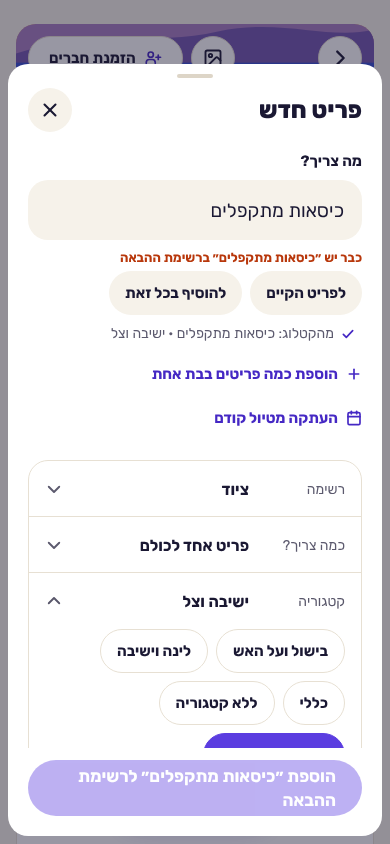
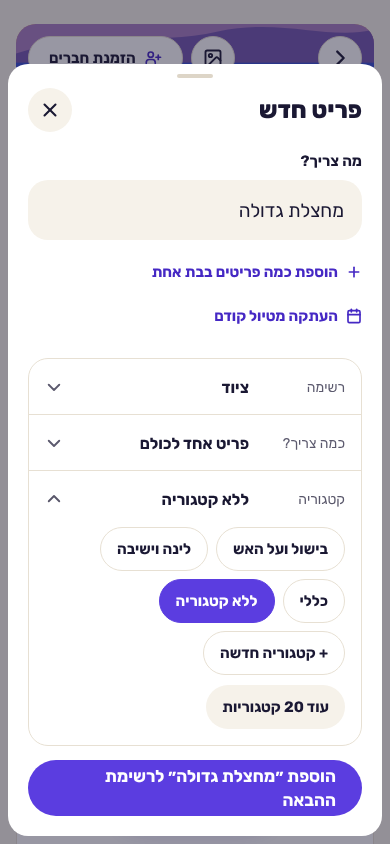
feat(app): every catalog category in the add-item sheet's category row
The category row offered only the trip's own categories and a new one.
The catalog's other categories ("תאורה וניווט", "כלים וסכו״ם"...) were
reachable only through the browse chips just removed, or by typing an
item the catalog knows. They now follow the trip's under
"עוד N קטגוריות"; picking one creates it in the trip, as a typed catalog
name does.

Claude-Session: https://claude.ai/code/session_01VJCBwFbbtzzTKqJcN8CLFP

diff --git a/apps/mobile/src/features/trip/ItemForm.tsx b/apps/mobile/src/features/trip/ItemForm.tsx
@@ -1,4 +1,5 @@
 import {
+  CATALOG_CATEGORIES,
   heldCatalogNames,
   type CatalogItem,
   type Item,
@@ -125,6 +126,8 @@ export function ItemForm({
   const [claim, setClaim] = useState(false);
   // Which detail row is open: they show what the catalog filled in and open to change it.
   const [open, setOpen] = useState<Detail | undefined>();
+  // The catalog's categories the trip doesn't have yet, under "more" in the category row.
+  const [allCategories, setAllCategories] = useState(false);
   const [saving, setSaving] = useState(false);
   const [failed, setFailed] = useState(false);
   // The list, how many or the category set by hand: a catalog name typed in full then doesn't
@@ -155,6 +158,17 @@ export function ItemForm({
     shown.category === NEW || categories.some((c) => c.id === shown.category)
       ? shown.category
       : undefined;
+  // The catalog's categories for this list that the trip doesn't have: picking one creates it, as
+  // a typed catalog name does.
+  const suggested = CATALOG_CATEGORIES.filter(
+    (c) => c.list === list && !categories.some((own) => own.name === c.name),
+  ).map((c) => c.name);
+  const newTyped = picked === NEW ? shown.newName.trim() : '';
+  const fromCatalog = picked === NEW && suggested.includes(newTyped);
+  // An open category stays in sight with the list folded.
+  const shownSuggested = allCategories
+    ? suggested
+    : suggested.filter((n) => fromCatalog && n === newTyped);
   const trimmed = name.trim();
   // Only suggest what this list doesn't have yet.
   const taken = heldCatalogNames(data.items.filter((i) => i.list === list).map((i) => i.name));
@@ -433,6 +447,17 @@ export function ItemForm({
                   onPress={() => choose(setCategory)(c.id)}
                 />
               ))}
+              {shownSuggested.map((n) => (
+                <FilterChip
+                  key={n}
+                  label={n}
+                  selected={fromCatalog && n === newTyped}
+                  onPress={() => {
+                    choose(setCategory)(NEW);
+                    setNewName(n);
+                  }}
+                />
+              ))}
               <FilterChip
                 label={he.trip.uncategorized}
                 selected={picked === undefined}
@@ -440,11 +465,28 @@ export function ItemForm({
               />
               <FilterChip
                 label={`+ ${he.addItem.newCategory}`}
-                selected={picked === NEW}
-                onPress={() => choose(setCategory)(NEW)}
+                selected={picked === NEW && !fromCatalog}
+                onPress={() => {
+                  choose(setCategory)(NEW);
+                  setNewName('');
+                }}
               />
             </ChipGroup>
-            {picked === NEW && (
+            {suggested.length > 0 && (
+              <PillButton
+                label={
+                  allCategories
+                    ? he.catalog.fewerCategories
+                    : he.catalog.moreCategories(suggested.length - shownSuggested.length)
+                }
+                variant="quiet"
+                size="sm"
+                onPress={() => setAllCategories(!allCategories)}
+                style={styles.moreCategories}
+                {...testId('item-form-more-categories')}
+              />
+            )}
+            {picked === NEW && !fromCatalog && (
               <Input
                 value={shown.newName}
                 onChangeText={choose(setNewName)}
@@ -492,6 +534,7 @@ const styles = StyleSheet.create({
   },
   detailLabel: { width: 84, fontFamily: fonts.regular, fontSize: 14, color: colors.inkMuted },
   detailValue: { flex: 1, fontFamily: fonts.bold, fontSize: 16, color: colors.ink },
+  moreCategories: { alignSelf: 'flex-start' },
   detailBody: { paddingHorizontal: 16, paddingBottom: 16, gap: 10 },
   duplicate: { gap: 6 },
   duplicateActions: { flexDirection: 'row', flexWrap: 'wrap', gap: 8 },

diff --git a/docs/SPEC.md b/docs/SPEC.md
@@ -186,7 +186,7 @@ Routes use Expo Router. Modal routes are sheets (`Sheet`, over a scrim), which b
 | New trip           | `/(app)/trips/new`                                                            | `NewTripV2`      | Live cover preview that follows the name and template; template tiles; name, dates; cover picker; preview of what goes into the lists.                                                                                                                                                                                                                                                                                                                                                                                                                                                                             |
 | Trip               | `/(app)/trips/[tripId]`                                                       | `TripV2`         | A cover banner with back, invite and (organizers) the cover picker; the name with who's in, dates and head count; the meetup point and album once set; the readiness hero (countdown, progress, what's mine, one action). Tabs ציוד / קניות / כסף / ניהול, pinned with the name once scrolled. ציוד has the views משותף / הרשימה שלי, filters הכול / חסר / אצלי and a card per category; קניות adds the shopping run; כסף has the views הוצאות / התחשבנות; ניהול has the meetup, album, name and dates, members and join requests, invite, leave and delete. One floating action per tab. A side panel on desktop. |
 | Item sheet         | `/(app)/trips/[tripId]/items/[itemId]` (modal)                                | `ItemSheetV2`    | Status as text under the title, who brings it (claim, release or assign; a stepper for how many), price entry (creates/updates the linked expense), who shares (chips), live per-person amount, note, mark bought, delete.                                                                                                                                                                                                                                                                                                                                                                                         |
-| Add item           | `/(app)/trips/[tripId]/items/new` (modal)                                     | `AddItemV2`      | Name first, with catalog matches while typing (browsing the catalog by section is in adding many); then list, amount (אחד / כמות / לכל אחד, or the buy amount) and category as one-line rows that show what the catalog filled in and open to change it; "אני אביא את זה" switch. Leads to adding many at once (`items/bulk`) and copying from a past trip (`items/copy`).                                                                                                                                                                                                                                         |
+| Add item           | `/(app)/trips/[tripId]/items/new` (modal)                                     | `AddItemV2`      | Name first, with catalog matches while typing (browsing the catalog by section is in adding many); then list, amount (אחד / כמות / לכל אחד, or the buy amount) and category (the trip's, then the catalog's under "עוד קטגוריות") as one-line rows that show what the catalog filled in and open to change it; "אני אביא את זה" switch. Leads to adding many at once (`items/bulk`) and copying from a past trip (`items/copy`).                                                                                                                                                                                   |
 | Take from my bag   | `/(app)/trips/[tripId]/bag` (modal)                                           | —                | Pick the common items in my bag that nobody brings yet, to bring them.                                                                                                                                                                                                                                                                                                                                                                                                                                                                                                                                             |
 | Category           | `/(app)/trips/[tripId]/categories/new`, `[categoryId]`                        | —                | Name and color of a category on the trip's lists.                                                                                                                                                                                                                                                                                                                                                                                                                                                                                                                                                                  |
 | Shopping run       | `/(app)/trips/[tripId]/shop/start`, `shop`, `shop/finish`                     | —                | Pick buy items to take on, the list at the store (live additions from others), one amount at the till ([packing and shopping spec](specs/packing-shopping/PACKING_SHOPPING_SPEC.md) §6).                                                                                                                                                                                                                                                                                                                                                                                                                           |
@@ -212,7 +212,7 @@ Routes use Expo Router. Modal routes are sheets (`Sheet`, over a scrim), which b
 | New trip | `/(app)/trips/new` | `NewTripV2` | Live cover preview updates with name and template; template tiles; name, dates, optional place; preview of what goes into the lists. |
 | Trip | `/(app)/trips/[tripId]` | `TripV2` | Cover with back, activity (unread dot), settings, invite. Status card: big missing count, covered text, avatar stack, pegs. Floating glass tab bar: להביא / לקנות / אנשים / כסף with missing badges. FAB per tab → add item / invite / add expense. |
 | Item sheet | `/(app)/trips/[tripId]/items/[itemId]` (modal) | `ItemSheetV2` | Status as text under the title, who brings it (claim, release or assign; a stepper for how many), price entry (creates/updates the linked expense), who shares (chips), live per-person amount, note, mark bought, delete. |
-| Add item | `/(app)/trips/[tripId]/items/new` (modal) | `AddItemV2` | Name first, with catalog matches while typing (browsing the catalog by section is in adding many); then list, amount (אחד / כמות / לכל אחד, or the buy amount) and category as one-line rows that show what the catalog filled in and open to change it; "אני אביא את זה" switch. |
+| Add item | `/(app)/trips/[tripId]/items/new` (modal) | `AddItemV2` | Name first, with catalog matches while typing (browsing the catalog by section is in adding many); then list, amount (אחד / כמות / לכל אחד, or the buy amount) and category (the trip's, then the catalog's under "עוד קטגוריות") as one-line rows that show what the catalog filled in and open to change it; "אני אביא את זה" switch. |
 | Add expense | `/(app)/trips/[tripId]/expenses/new` (modal) | `AddExpenseV2` | Amount, description with shortcuts from the buy list, who paid, who shares, receipt photo. |
 | Invite | `/(app)/trips/[tripId]/invite` (modal) | `InviteV2` | WhatsApp preview card, editable message, share / copy / QR, approval switch, rotate link. |
 | Activity | `/(app)/trips/[tripId]/activity` | `ActivityV2` | "מחכה לך" to-dos (unpriced purchases, money you owe), filter הכול / פריטים / כסף, timeline grouped by day. |
